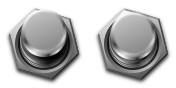
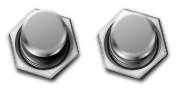
Fix trigger parameters are excluded from groups in the settings dialog. Closes sejerpz/alabs-mod-custom-images#75
(cherry picked from commit 3a6ddd0fc17eb4e9260bd1ee2ab930518badaff2)

diff --git a/html/resources/settings.html b/html/resources/settings.html
@@ -148,8 +148,14 @@
                     {{/toggled}}
                 {{/trigger}}
                 {{#trigger}}
-                <div class="mod-switch" title="{{comment}}">
-                    <span class="mod-switch-title">{{shortName}}</span>
+                <div class="mod-switch{{#group}} mod-group{{#groupStart}} mod-group-start{{/groupStart}} mod-group-{{groupCssIndex}}{{#groupEnd}} mod-group-end{{/groupEnd}}{{/group}}" title="{{comment}}">
+                    <span class="mod-switch-title{{#group}} mod-group-item-title{{/group}}">{{shortName}}</span>
+                    {{#group}}
+                    <div class="mod-footswitch-background" style="background-color: var(--group-{{groupCssIndex}}-color);"></div>
+                    {{/group}}
+                    {{^group}}
+                    <div class="mod-footswitch-background"></div>
+                    {{/group}}
                     <div class="mod-footswitch-image" mod-role="input-control-port" mod-port-symbol="{{symbol}}" mod-widget="film"></div>
                     <div class="mod-address" mod-role="input-control-address" mod-port-symbol="{{symbol}}"></div>
                 </div>

diff --git a/html/css/pedals.css b/html/css/pedals.css
@@ -761,6 +761,17 @@ body > .mod-settings.mod-window-visible {
   left: 80px;
 }
 
+/* group color behind the faded nut face of footswitch.png; ungrouped triggers get the nut's own gray */
+.mod-pedal-settings .mod-footswitch-background {
+    background-color: #8b8b8b;
+    clip-path: polygon(39.8% 9.1%, 79.5% 20.5%, 90.9% 62.5%, 58.0% 90.9%, 18.2% 78.4%, 10.2% 37.5%);
+    height: 64px;
+    left: 47px;
+    position: absolute;
+    top: 55px;
+    width: 64px;
+}
+
 .mod-pedal-settings .mod-switch .mod-footswitch-image {
     background-image:url(../img/footswitch.png);
     background-position:left center;
